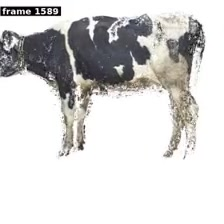
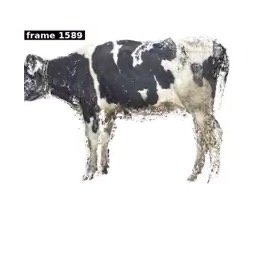
homepage Projects: height-match preview to text + fix cut-off previews
- CSS: each project row is a flexbox; the image column is a fixed-width frame
  stretched to the text-block height, filled via object-fit:cover (exact
  height-match, only a hair of crop). Scoped to .projects; mobile unchanged.
- Images (sanity check): re-crop led-timecode.jpg to ONE complete decode panel
  (the 2x2 grid had its right column clipped); pad motion-capture.jpg with a
  white margin so the cow isn't flush to the edges.

Changed region(s): [[0.0, 0.0, 0.9375, 0.7188]]

diff --git a/style.scss b/style.scss
@@ -162,6 +162,40 @@ span.highlight {
   border-radius: 6px;
 }
 
+// Projects: make each row's preview image exactly as tall as its text block.
+// Flex row; the text sets the height. The image column is a fixed-width frame that
+// stretches to that height, and the image fills it (object-fit:cover). The frame is
+// near-square, so cover crops only a hair — absorbed by the images' margins.
+.projects .proj-row {
+  display: flex;
+  align-items: stretch;
+}
+.projects .proj-img {
+  flex: 0 0 108px;
+  align-self: stretch;
+}
+.projects .proj-text {
+  flex: 1 1 auto;
+  min-width: 0;
+}
+.projects .proj-thumb {
+  position: relative;
+  width: 100%;
+  height: 100%;
+  overflow: hidden;
+  border-radius: 6px;
+}
+.projects .proj-thumb a { position: absolute; inset: 0; }
+.projects .proj-thumb img {
+  position: absolute;
+  inset: 0;
+  width: 100%;
+  height: 100%;
+  object-fit: cover;
+  border-radius: 0;
+  display: block;
+}
+
 .project-meta {
   margin: 4px 0;
 }
@@ -285,6 +319,19 @@ span.highlight {
   .proj-row .proj-img img {
     max-width: 260px;
     margin: 0 auto;
+  }
+
+  // Undo the desktop square-frame so the stacked mobile thumbnail is natural.
+  .projects .proj-thumb {
+    position: static;
+    height: auto;
+    aspect-ratio: auto;
+  }
+  .projects .proj-thumb a { position: static; }
+  .projects .proj-thumb img {
+    position: static;
+    width: auto;
+    height: auto;
   }
 
   .proj-row .proj-text {

diff --git a/index.md b/index.md
@@ -3,17 +3,17 @@ layout: default
 title: Home
 ---
 
-<table style="width:100%;border:0px;border-spacing:0px;border-collapse:separate;margin-right:auto;margin-left:auto;">
+<table class="projects" style="width:100%;border:0px;border-spacing:0px;border-collapse:separate;margin-right:auto;margin-left:auto;">
   <tr>
     <td colspan="2" style="padding:1% 2.5%;vertical-align:middle">
       <h2>Projects</h2>
     </td>
   </tr>
   <tr class="proj-row">
-    <td class="proj-img" style="padding:1% 2.5%;width:25%;vertical-align:middle;min-width:120px">
-      <a href="/motion-capture.html"><img src="./assets/img/motion-capture.jpg" alt="Motion Capture and 3D Reconstruction" class="project-image" /></a>
+    <td class="proj-img" style="padding:1% 2.5%;vertical-align:top">
+      <div class="proj-thumb"><a href="/motion-capture.html"><img src="./assets/img/motion-capture.jpg" alt="Motion Capture and 3D Reconstruction" class="project-image" /></a></div>
     </td>
-    <td class="proj-text" style="padding:1% 2.5%;width:75%;vertical-align:middle">
+    <td class="proj-text" style="padding:1% 2.5%;vertical-align:top">
       <h3><a href="/motion-capture.html">Motion Capture and 3D Reconstruction</a></h3>
       <p class="project-meta">
       A fully mobile, markerless motion-capture rig of eleven synchronized smartphones for high-fidelity 3D reconstruction in the wild, with cattle reconstruction, human pose, and IMU motion-capture demos.
@@ -21,10 +21,10 @@ title: Home
     </td>
   </tr>
   <tr class="proj-row">
-    <td class="proj-img" style="padding:1% 2.5%;width:25%;vertical-align:middle;min-width:120px">
-      <a href="https://yuboshell.github.io/led-sync-panel/report.html" target="_blank" rel="noopener"><img src="./assets/img/led-timecode.jpg" alt="LED Timecode Panel" class="project-image" /></a>
+    <td class="proj-img" style="padding:1% 2.5%;vertical-align:top">
+      <div class="proj-thumb"><a href="https://yuboshell.github.io/led-sync-panel/report.html" target="_blank" rel="noopener"><img src="./assets/img/led-timecode.jpg" alt="LED Timecode Panel" class="project-image" /></a></div>
     </td>
-    <td class="proj-text" style="padding:1% 2.5%;width:75%;vertical-align:middle">
+    <td class="proj-text" style="padding:1% 2.5%;vertical-align:top">
       <h3><a href="https://yuboshell.github.io/led-sync-panel/report.html" target="_blank" rel="noopener">LED Timecode Panel</a></h3>
       <p class="project-meta">
       A DIY LED timecode panel that stamps a per-frame binary code into every camera's view, for measuring multi-camera synchronization to sub-millisecond precision (the capture rig behind the Pixel-7 sync-evaluation project).